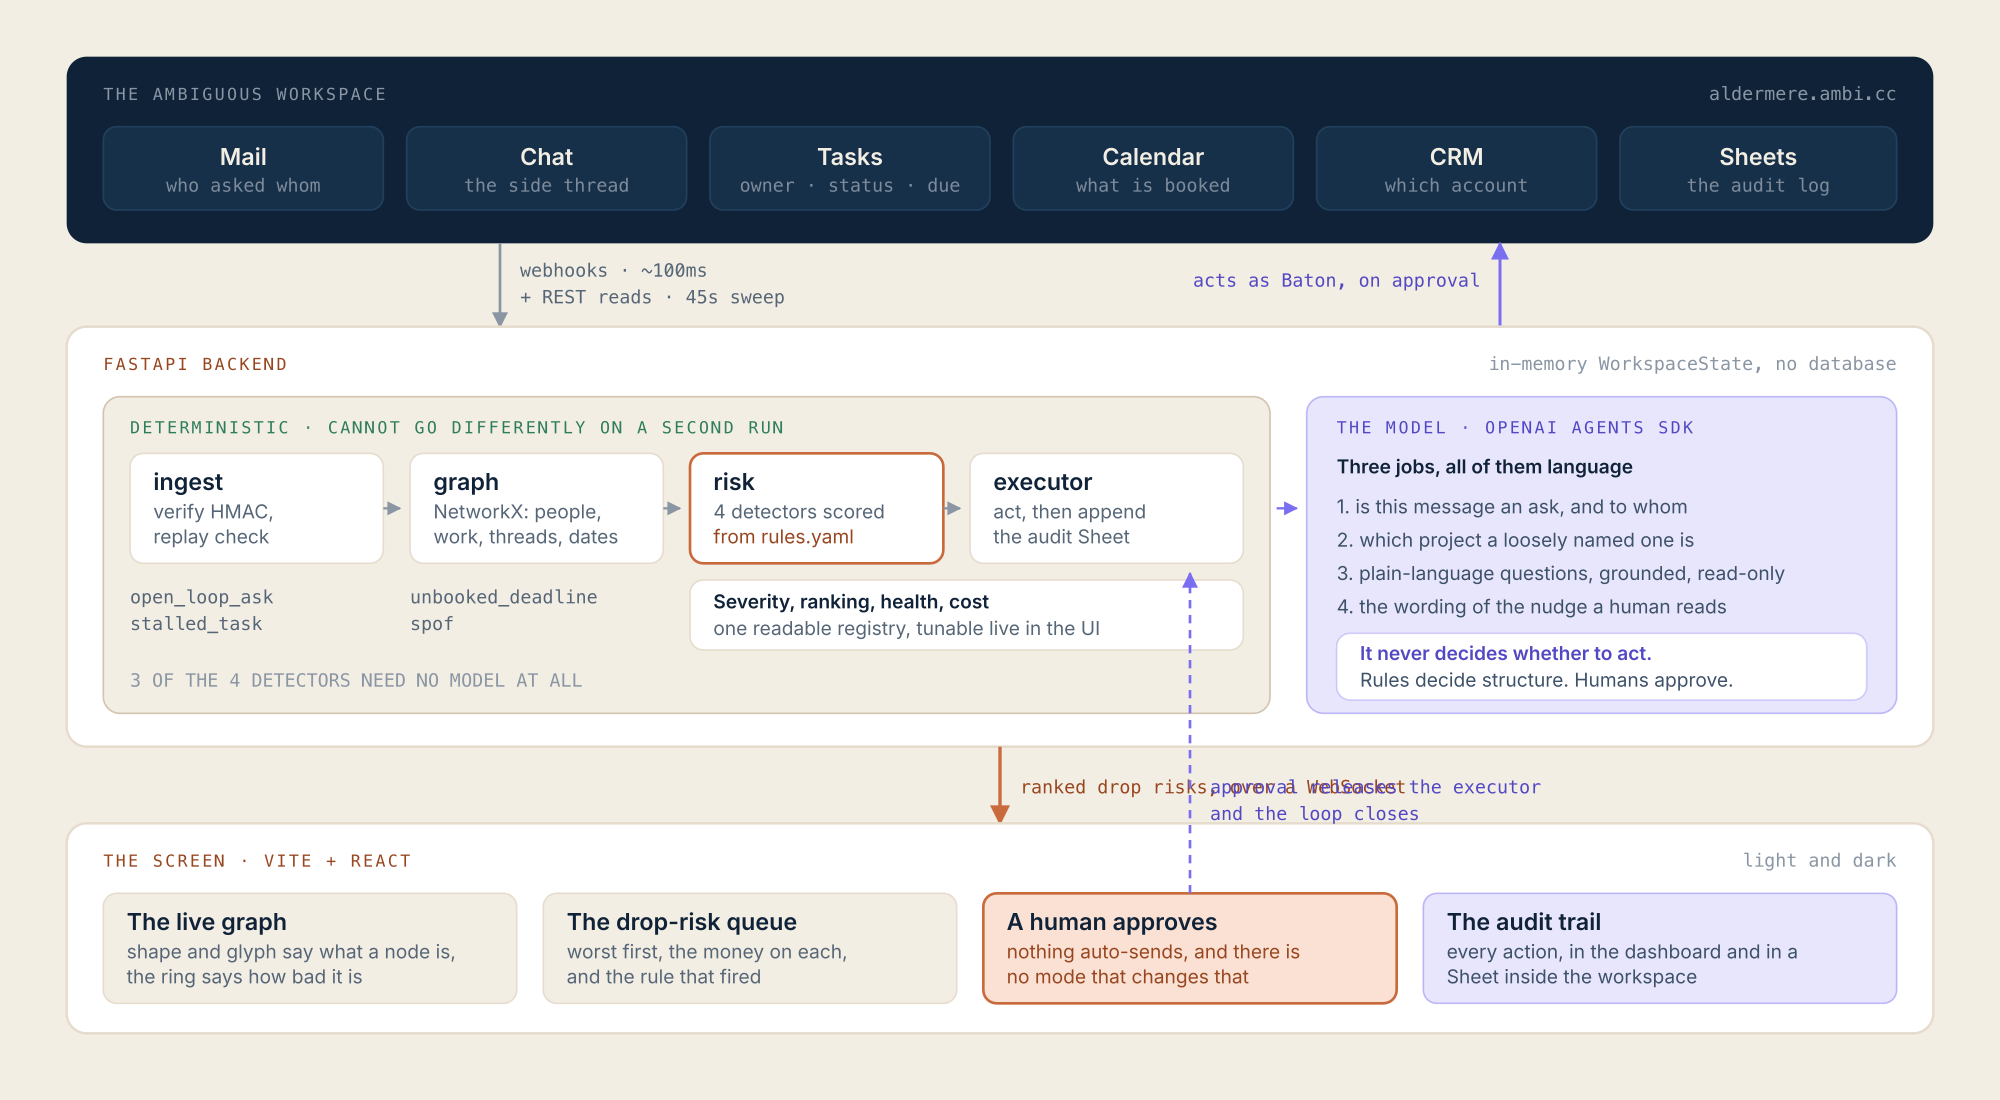
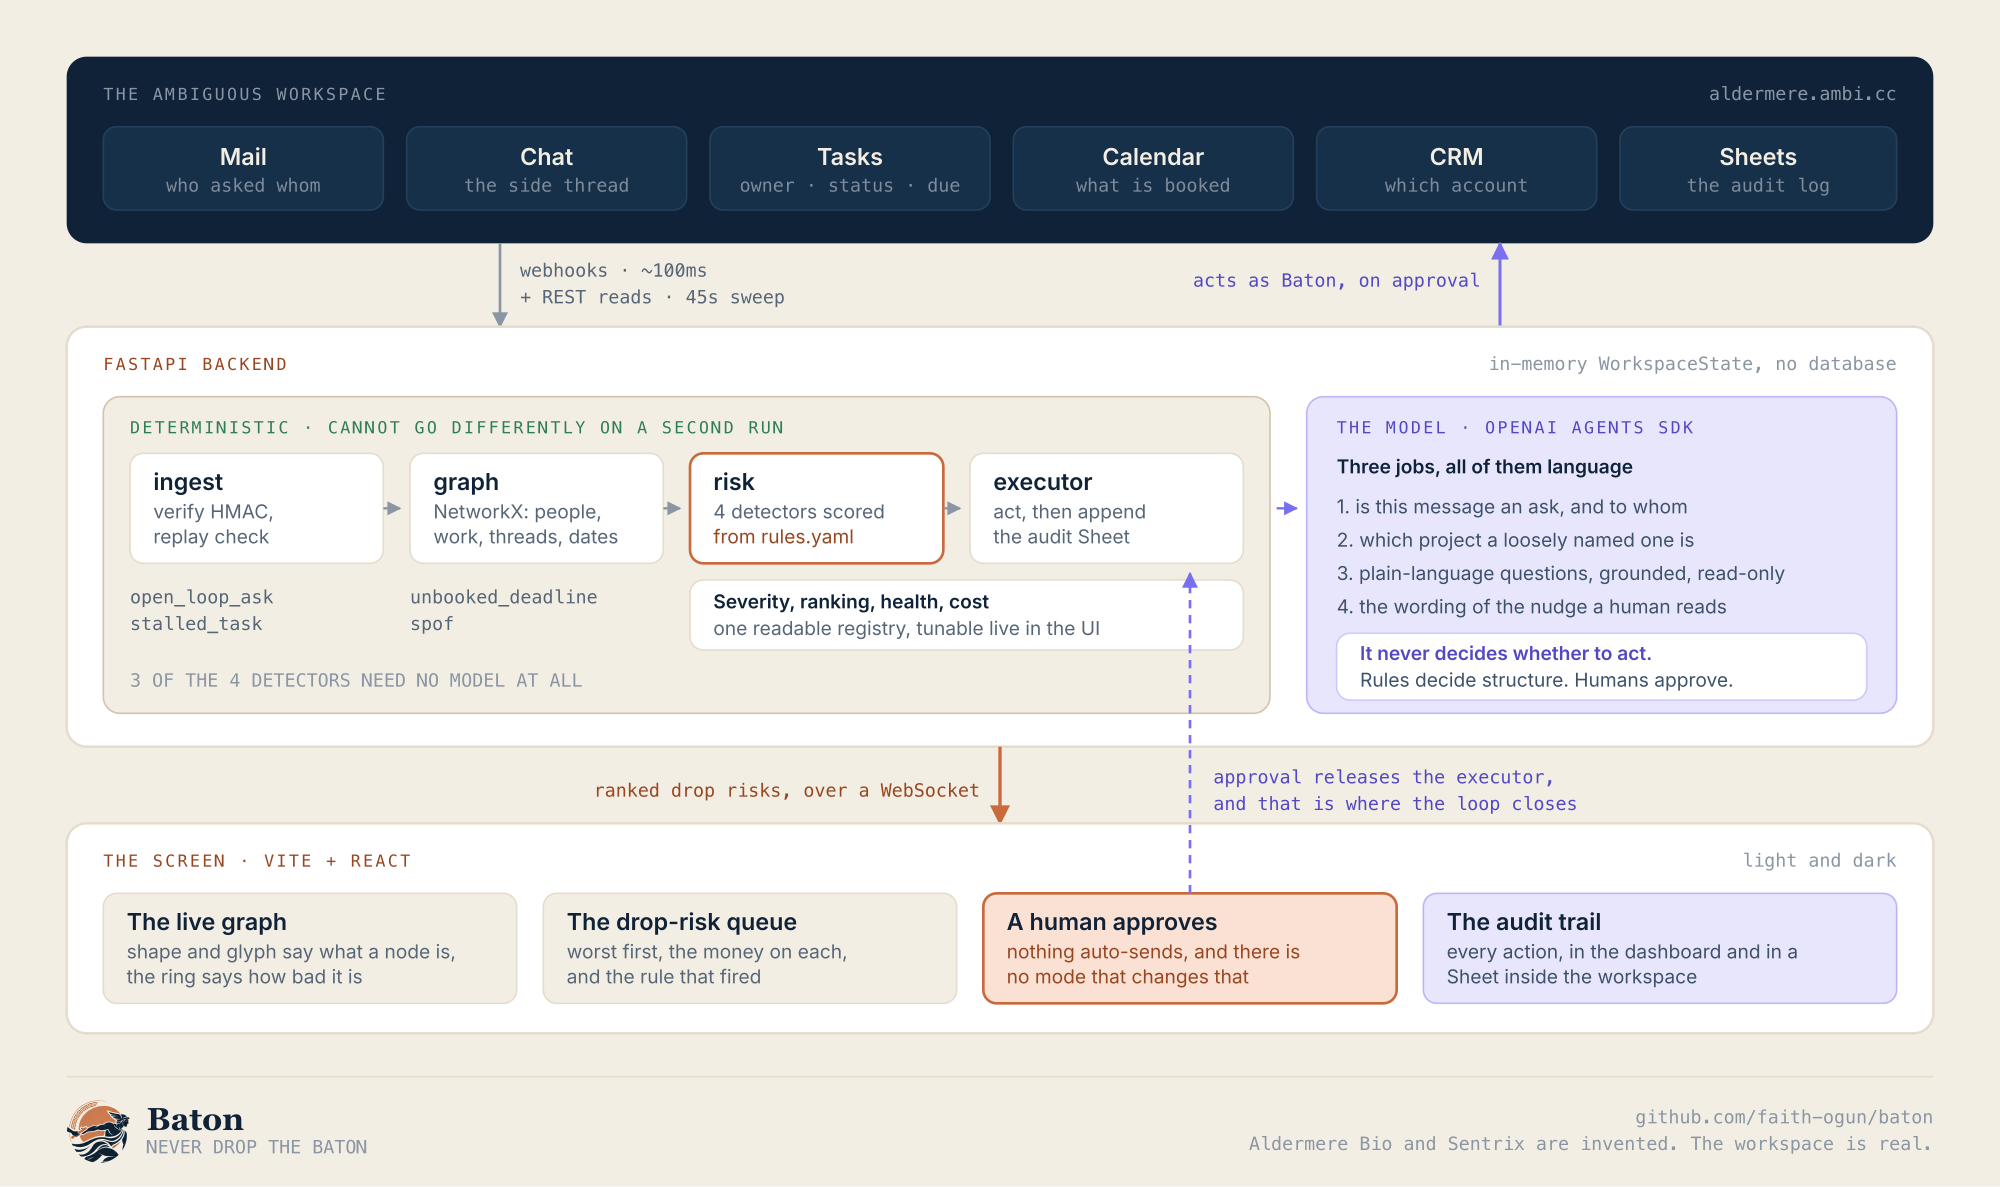
README: sharper hero, signed architecture diagram, live URLs
The hero gif now renders at its native 1280x720 rather than being
downscaled to 1000, which is what was softening the small mono type on
GitHub. 2.34 MiB, comfortably inside the budget.

The architecture diagram gains the mark as a signature strip, embedded
as a data URI so the diagram still works wherever it travels, and two
labels that were printing through each other are separated.

Adds the live URLs: the front end on Firebase Hosting and the API on
Cloud Run, both reading a real Ambiguous workspace. Credits ChatGPT's
image tool for the mark.

diff --git a/README.md b/README.md
@@ -19,6 +19,14 @@
 </p>
 
 <p align="center">
+  <b>Live:</b> <a href="https://baton-hack-2026.web.app/app">baton-hack-2026.web.app/app</a>
+  &nbsp;·&nbsp;
+  <b>API:</b> <a href="https://baton-104295462760.europe-west1.run.app/health">Cloud Run health</a>
+  &nbsp;·&nbsp;
+  reading a real Ambiguous workspace
+</p>
+
+<p align="center">
   <a href="#run-it-in-two-commands"><b>◆ Run it in two commands&nbsp;→</b></a>
   &nbsp;&nbsp;·&nbsp;&nbsp;
   <a href="#what-gets-dropped">What gets dropped</a>
@@ -36,9 +44,6 @@
   <img src="https://img.shields.io/badge/detectors-3_of_4_deterministic-2ea043?style=flat-square" alt="three of the four detectors are deterministic">
   <img src="https://img.shields.io/badge/outputs-drafts_only-8A96A3?style=flat-square" alt="drafts only">
   <img src="https://img.shields.io/badge/auto--sends-never-2ea043?style=flat-square" alt="nothing auto-sends">
-  &nbsp;
-  <img src="https://img.shields.io/endpoint?style=flat-square&url=https://raw.githubusercontent.com/faith-ogun/baton/main/.stats/views-badge.json" alt="All-time repository views">
-  <img src="https://img.shields.io/endpoint?style=flat-square&url=https://raw.githubusercontent.com/faith-ogun/baton/main/.stats/clones-badge.json" alt="All-time repository clones">
 </p>
 
 <p align="center">
@@ -273,7 +278,9 @@ Three properties, and all three are structural rather than instructions in a pro
 - **Not autonomous.** Deliberately. See Governance.
 - **Not a surveillance tool.** It watches work items and hand-offs, not people's activity, and the
   audit trail is readable by the team it covers.
-- **Not deployed.** The demo runs locally on purpose, for reliability.
+- **Not a mock when deployed.** The public site reads the same real workspace through Cloud Run, and
+  its status bar says so. The demo video is recorded against localhost only because a cold Cloud Run
+  instance adds a few seconds to the first request.
 
 ---
 
@@ -306,8 +313,9 @@ Start at [`docs/_meta/MOC.md`](docs/_meta/MOC.md).
 | Graph | **NetworkX** server-side · `react-force-graph-2d` + `d3-force` on the screen |
 | Backend | **FastAPI** · httpx · in-memory state, no database |
 | Front end | **Vite** · React 19 · Tailwind 4 · Fraunces / Inter / JetBrains Mono |
-| Video | **Remotion** for the animation above |
-| Deploy | **Google Cloud Run** (stretch; the demo runs locally) |
+| Video | **Remotion** for the animation above and the demo cutaways |
+| Identity | The mark is Hermes mid-hand-off, generated with **ChatGPT's image tool** and then cut out, background-removed and given a reversed cream-on-navy cut for dark grounds |
+| Deploy | **Google Cloud Run** (`europe-west1`) for the API, **Firebase Hosting** for the front end, secrets in **Secret Manager** |
 
 Vite rather than Next: the dashboard is a single client-rendered canvas app with a WebSocket, so
 server rendering buys nothing and costs an `ssr: false` dance around the one component that must not
@@ -324,5 +332,6 @@ break. `/app` is a client route, so a static host needs unknown paths rewritten 
 
 <p align="center">
   <i>Somebody on your team is about to drop something today.</i><br>
-  <sub>Faith Ogundimu &nbsp;·&nbsp; Agents, Everywhere &nbsp;·&nbsp; 12 September 2026</sub>
+  <sub>Faith Ogundimu &nbsp;·&nbsp; Agents, Everywhere &nbsp;·&nbsp; 12 September 2026</sub><br>
+  <sub>Mark generated with ChatGPT's image tool. Aldermere Bio and Sentrix are invented; the workspace is real.</sub>
 </p>
